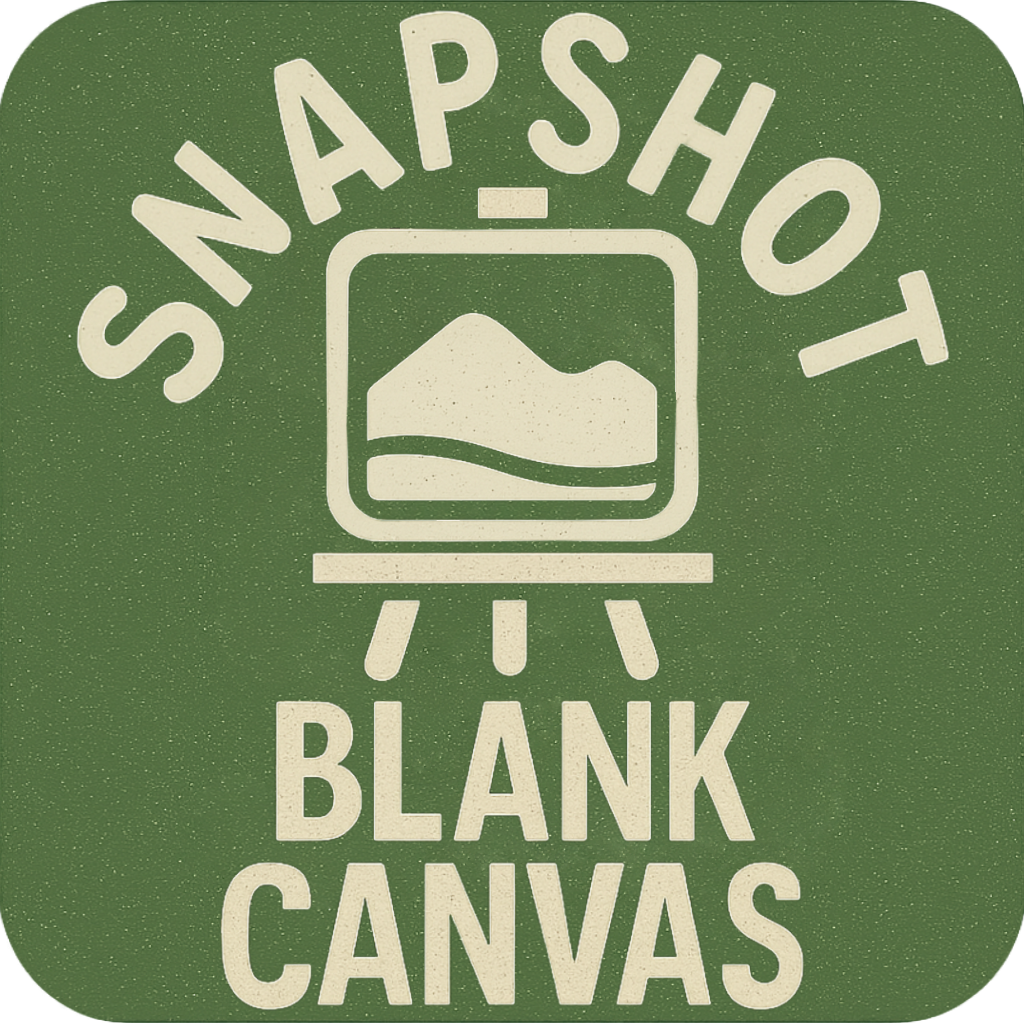
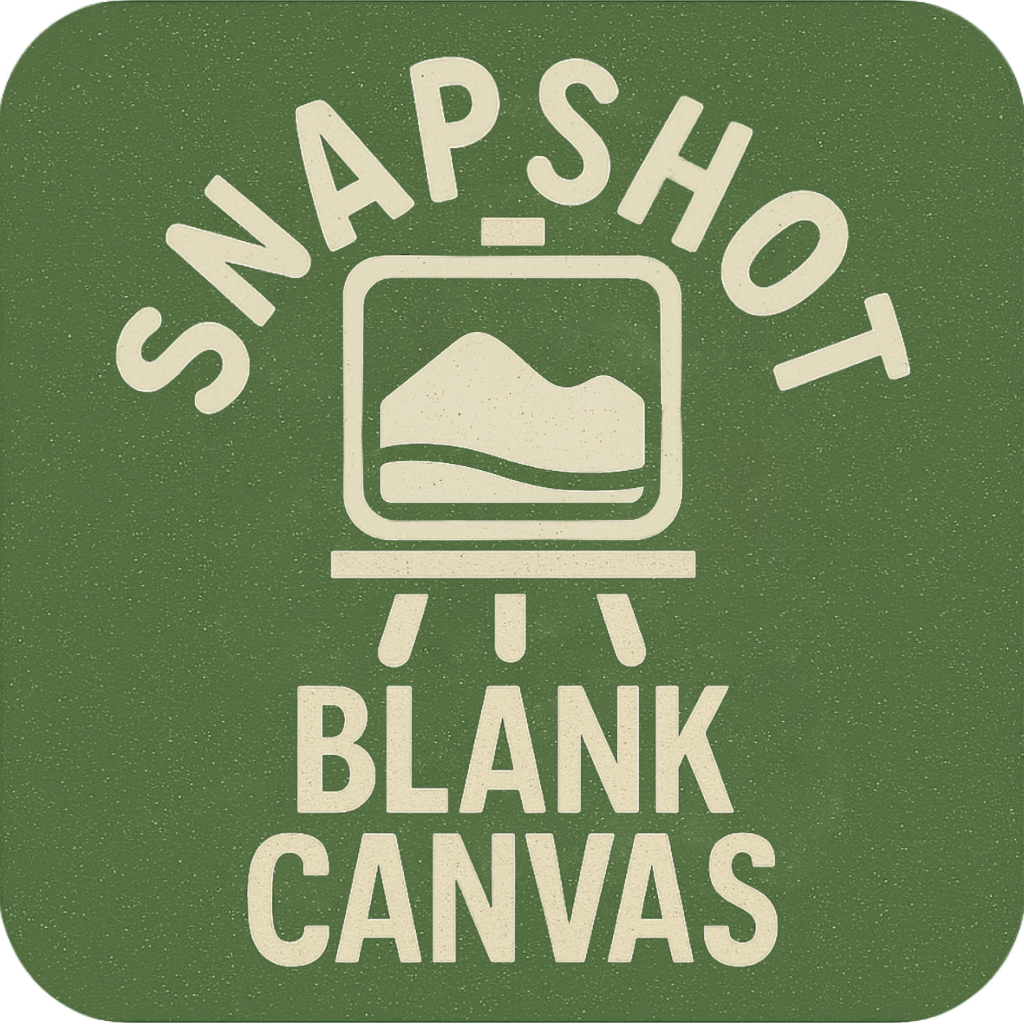
dsadsads

Changed region(s): [[0.0625, 0.0, 0.9375, 1.0]]

diff --git a/index.html b/index.html
@@ -71,7 +71,7 @@
     <button onclick="saveIdeas()" title="Save .json File" class="toolbar-btn" data-icon="save">💾Save.json</button>
     <input accept=".json" id="fileLoader" style="display:none" type="file"/>
     <button onclick="document.getElementById('fileLoader').click()" title="Load .json File" class="toolbar-btn" data-icon="load">🆙 Load.json</button>
-    <button onclick="deleteAllIdeas()" oncontextmenu="location.reload(); return false;" title="Blank Canvas (Right-click to reset)" class="toolbar-btn" data-icon="clear">🚮Clear💭Ideas🗑</button>
+    <button onclick="captureCanvasOnly()" oncontextmenu="deleteAllIdeas(); return false;" title="Snapshot (Right-click to clear canvas)" class="toolbar-btn" data-icon="clear">🚮Clear💭Ideas🗑</button>
   </div>
 
   <!-- Media Toolbar -->
